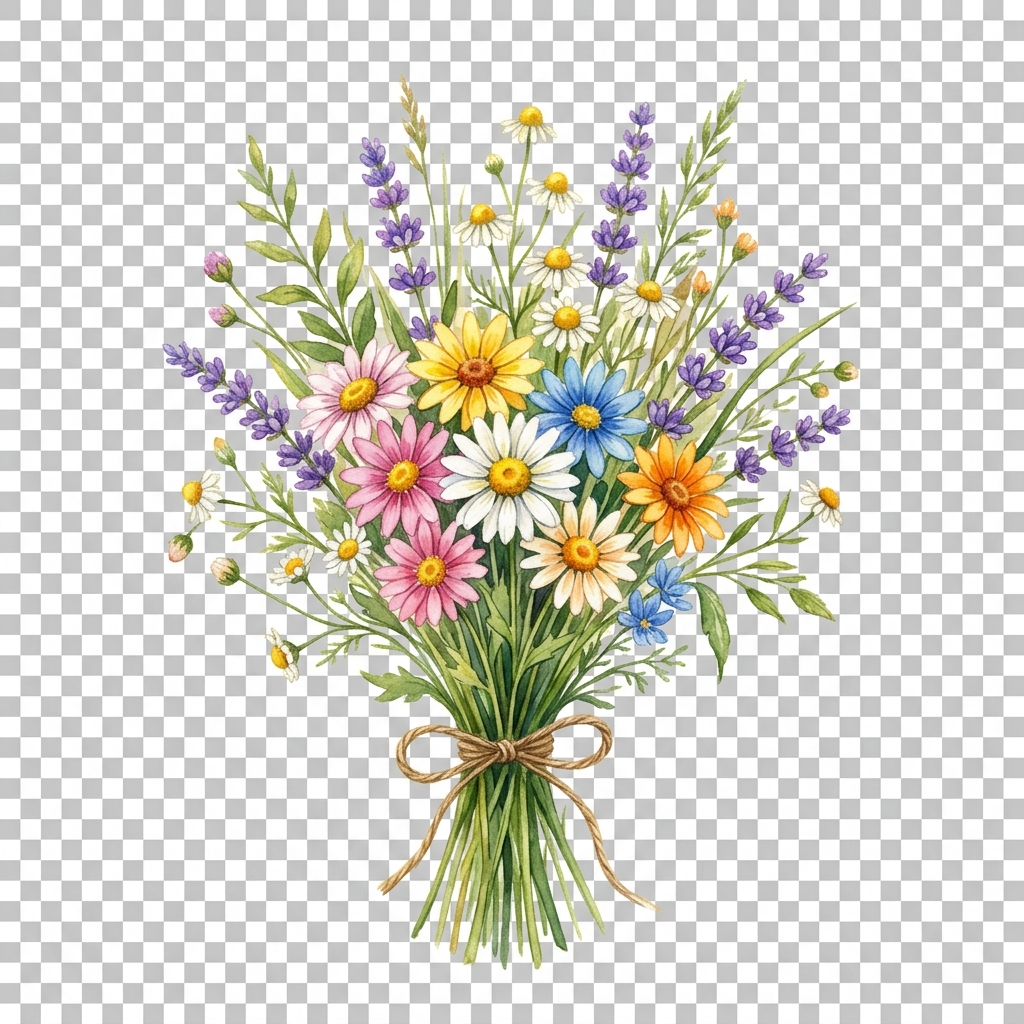
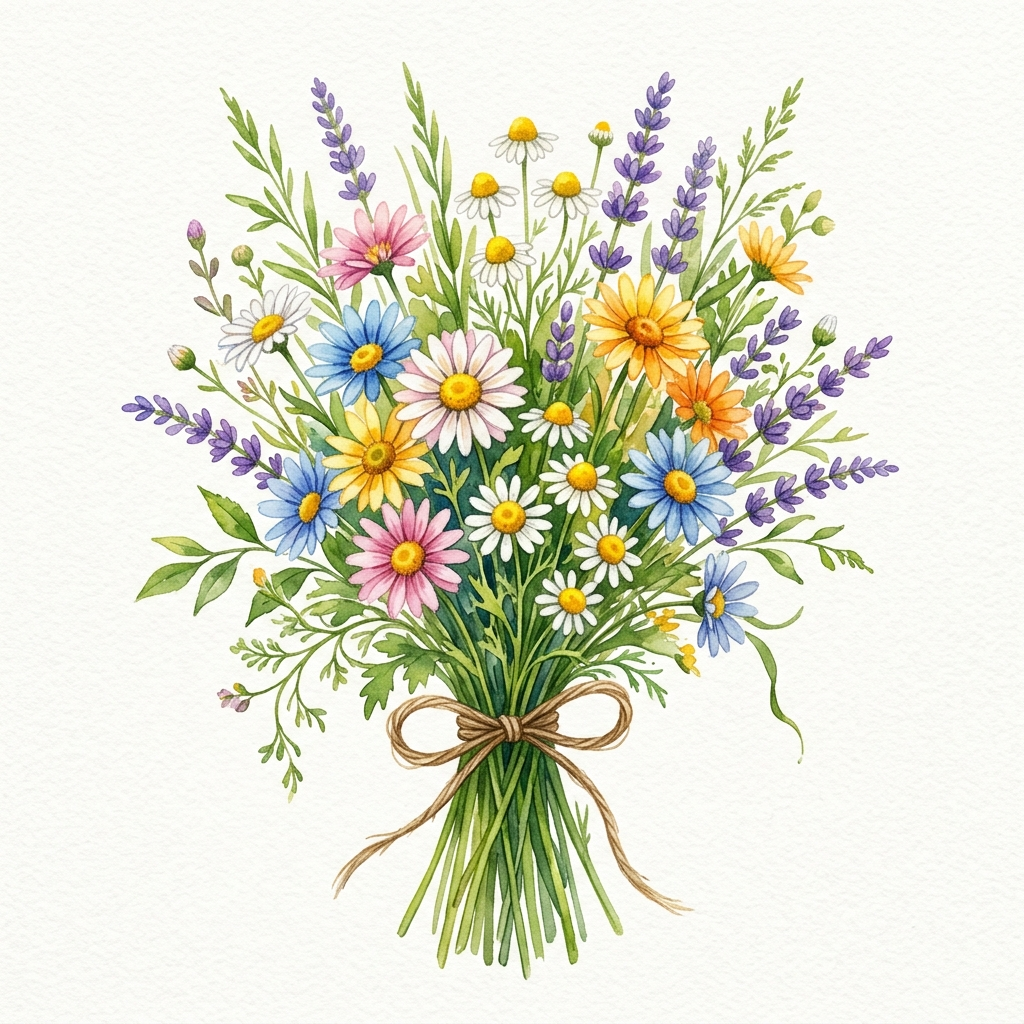
fix: flowers use mix-blend-mode multiply (no checkerboard), bump message limit to 1000

diff --git a/index.html b/index.html
@@ -236,14 +236,14 @@
               <div class="control-group">
                 <label for="message-input" class="control-label">Write your message:</label>
                 <div class="textarea-wrap">
-                  <textarea id="message-input" maxlength="180" rows="5"
+                  <textarea id="message-input" maxlength="1000" rows="5"
                     placeholder="Write something from your heart…" class="message-textarea"></textarea>
                   <svg class="resize-icon" width="12" height="12" viewBox="0 0 12 12" aria-hidden="true">
                     <path stroke="#717680" d="M11 1v10H1"/>
                     <path stroke="#717680" d="M11 11 4 4"/>
                   </svg>
                 </div>
-                <div class="char-count"><span id="msg-char-count">0</span>/180</div>
+                <div class="char-count"><span id="msg-char-count">0</span>/1000</div>
               </div>
 
               <!-- Flower picker -->

diff --git a/style.css b/style.css
@@ -205,6 +205,7 @@ input, textarea { font-family: inherit; }
   width: 170%; height: 132%; object-fit: contain;
   transform: rotate(-15deg); position: absolute; left: -35%; top: -15%;
   transition: opacity 0.2s;
+  mix-blend-mode: multiply;
 }
 .pc-message-preview {
   position: absolute; left: 20px; top: 72px; z-index: 3;
@@ -493,7 +494,7 @@ input, textarea { font-family: inherit; }
   outline: none; transition: opacity 0.15s, box-shadow 0.15s;
   opacity: 0.4; border: none; background: none; padding: 0;
 }
-.flower-btn img { width: 100%; height: 100%; object-fit: cover; }
+.flower-btn img { width: 100%; height: 100%; object-fit: cover; mix-blend-mode: multiply; }
 .flower-btn.selected { opacity: 1; box-shadow: 0 0 0 2px rgba(10,10,10,0.25), 0 2px 8px rgba(0,0,0,0.1); }
 .flower-btn:focus-visible { box-shadow: 0 0 0 2px rgba(10,10,10,0.3); opacity: 0.8; }
 .flower-btn:hover:not(.selected) { opacity: 0.7; }

diff --git a/app.js b/app.js
@@ -228,7 +228,7 @@
     msgInput.addEventListener('input', () => {
       state.message = msgInput.value;
       msgCount.textContent = state.message.length;
-      msgCount.parentElement.classList.toggle('at-limit', state.message.length >= 180);
+      msgCount.parentElement.classList.toggle('at-limit', state.message.length >= 1000);
       pcMsgPreview.textContent = state.message;
       updateShareButtons();
     });